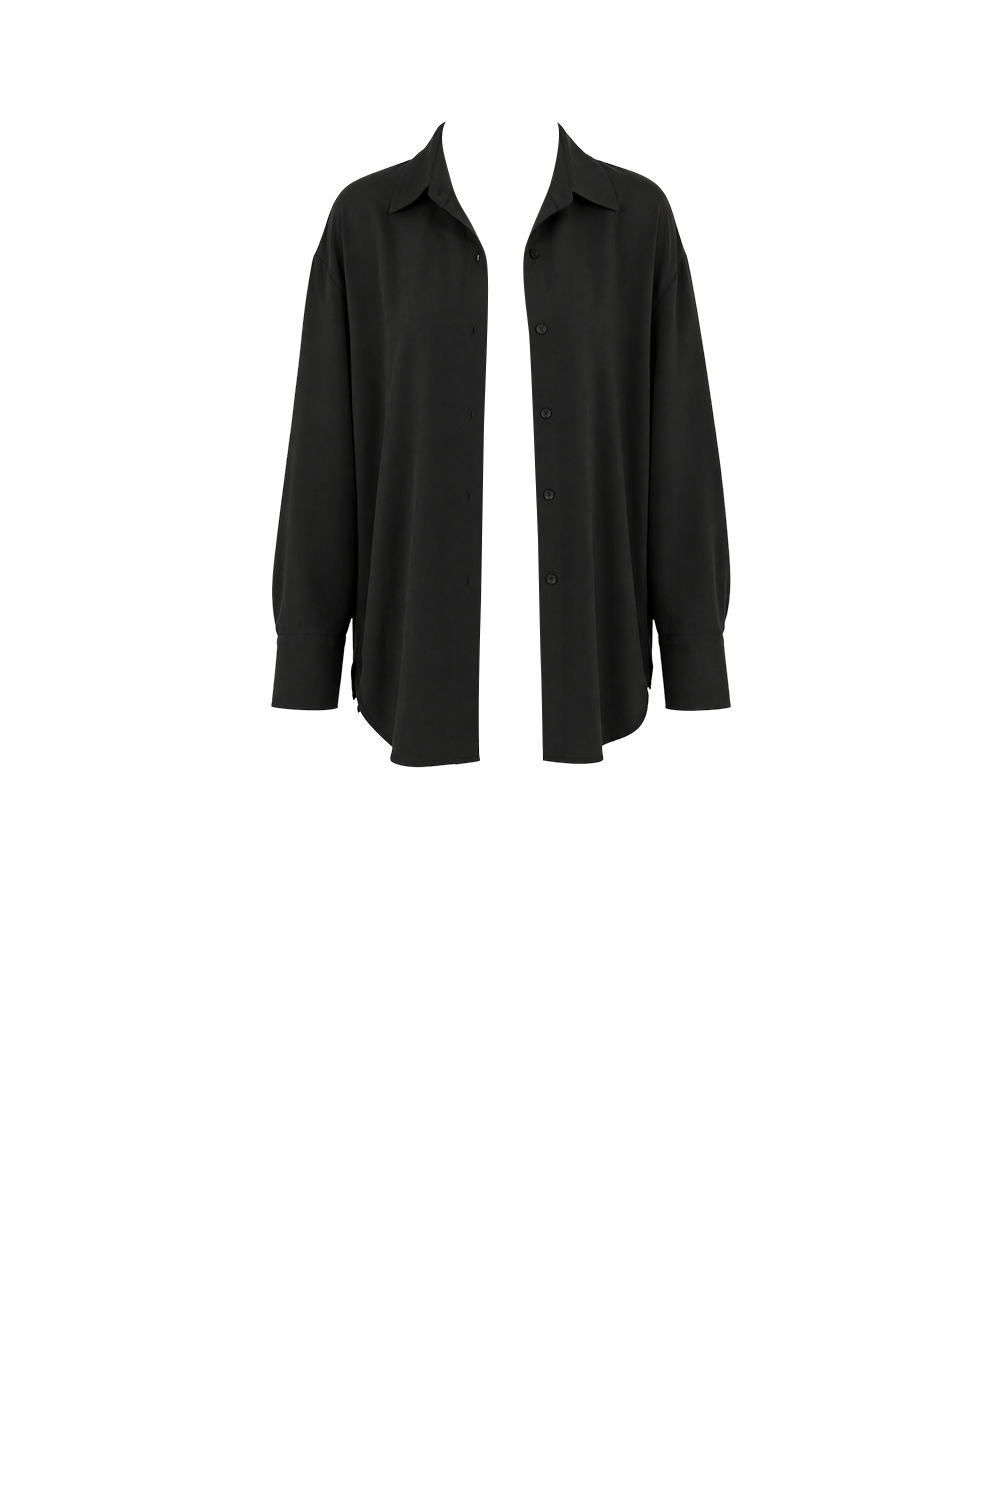
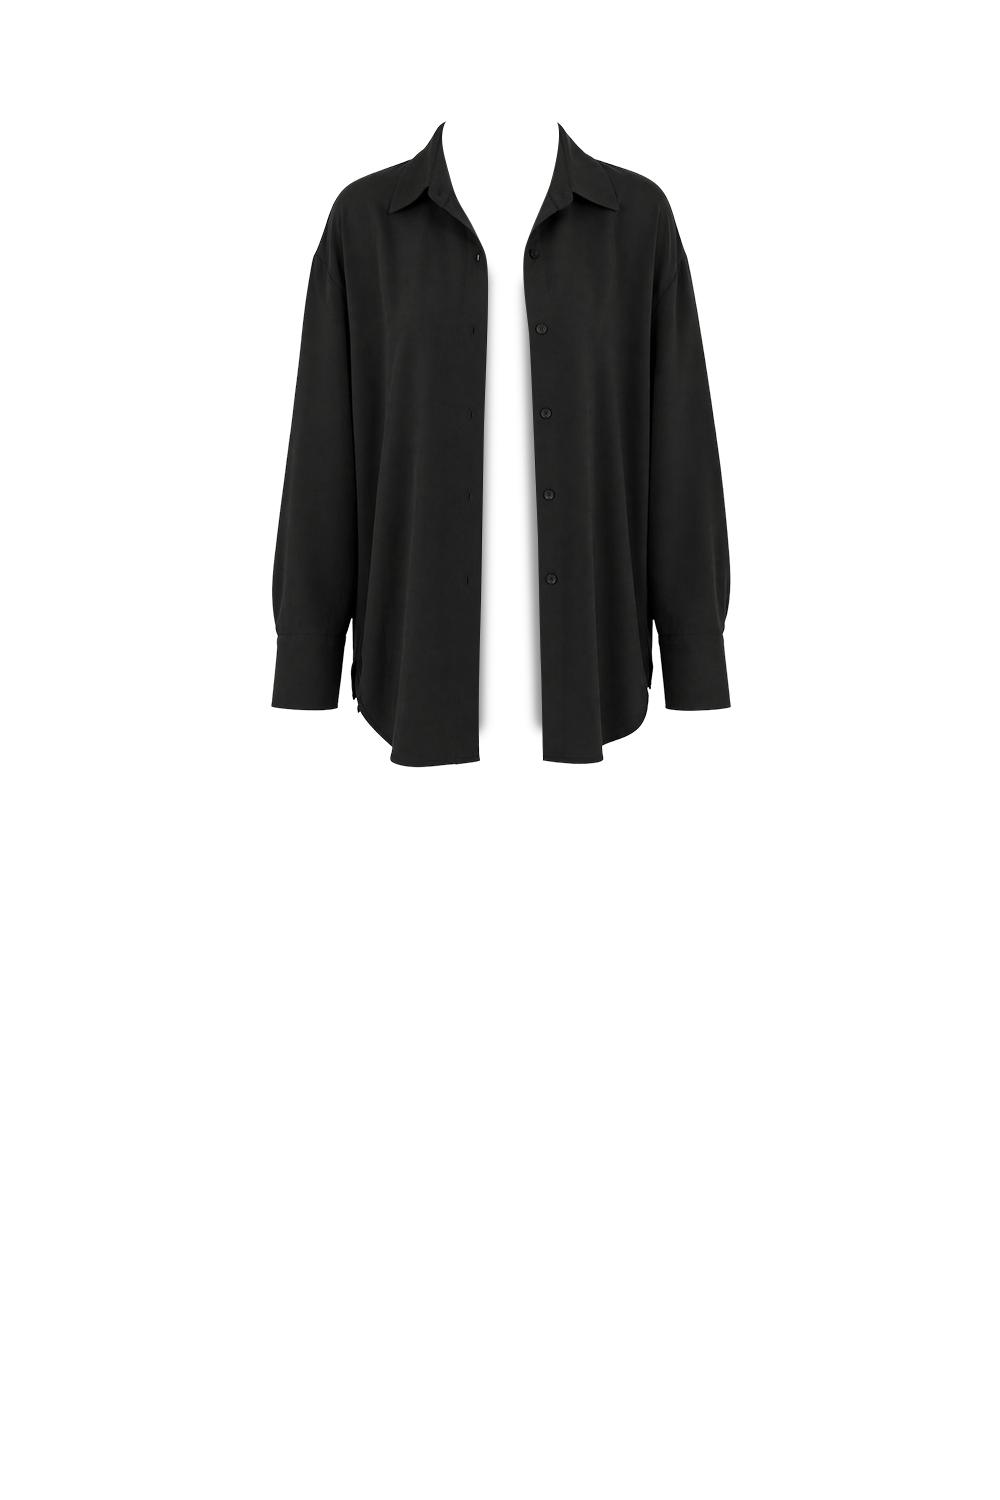
Vestidor: fixed z-index system, new polo cuello alto, updated garment images
- Replace array-position z-index with fixed slots per garment type
  (backs fixed z1-3, middle reorderable z10+, outwear fronts z20-21)
- Add Polo Cuello Alto Blanco (id:604)
- Update coat, camisa, and polo images with trimmed versions

Changed region(s): [[0.465, 0.184, 0.558, 0.4907]]

diff --git a/vestidor.html b/vestidor.html
@@ -1189,6 +1189,9 @@
         { id:603, name:"Basic Tee Blanca", cat:"polos", price:450,
           imgDemo:"photos_demo/demo_polo_gray.png",
           img:"img/vestidor/polo_002_blanco.png" },
+        { id:604, name:"Polo Cuello Alto Blanco", cat:"polos", price:750,
+          imgDemo:"photos_demo/polo_003_blanco.png",
+          img:"img/vestidor/polo_003_blanco.png" },
       ],
       blusas: [
         { id:701, name:"Camisa Negra", cat:"blusas", price:950,
@@ -1487,12 +1490,33 @@
     /* ============================================
        RENDER CANVAS LAYERS
        ============================================ */
+    /* Z-index system:
+       - FIXED slots for back layers + outwear fronts (never move)
+       - REORDERABLE middle zone for polos, pants, faldas, camisa-front (user can swap)
+
+       z=1: abrigos back   (FIXED)
+       z=2: jackets back    (FIXED)
+       z=3: camisa/blusa back (FIXED)
+       z=10..19: middle zone — polos, pants, faldas, mid-front (array order)
+       z=20: jackets front  (FIXED)
+       z=21: abrigos front  (FIXED)
+    */
+    function isMiddleLayer(layer) {
+      const lt = layer.layerType;
+      if (lt === 'normal') return true;       // polos, pants, faldas
+      if (lt === 'mid-front') return true;     // camisa/blusa front
+      return false;
+    }
+
     function renderCanvas() {
       document.querySelectorAll('.canvas__layer').forEach(el => el.remove());
 
       const canvas = document.getElementById('canvas');
       const emptyMsg = document.getElementById('canvasEmpty');
       emptyMsg.classList.toggle('hidden', layers.length > 0);
+
+      // Count middle layers for dynamic z assignment
+      let midCounter = 0;
 
       layers.forEach((l, i) => {
         if (l.hidden) return; // skip hidden layers
@@ -1503,8 +1527,17 @@
         if (l.layerType === 'coat-back' || l.layerType === 'mid-back') div.classList.add('canvas__layer--coat-back');
         if (l.layerType === 'coat-front' || l.layerType === 'mid-front') div.classList.add('canvas__layer--coat-front');
 
-        // z-index follows array order: index 0 = back, last = front
-        div.style.zIndex = i + 2;
+        // Z-index: fixed for backs/outwear-fronts, array-order for middle zone
+        let z;
+        const cat = l.item.cat;
+        const lt = l.layerType;
+        if (lt === 'coat-back' && cat === 'abrigos')  z = 1;
+        else if (lt === 'coat-back' && cat === 'jackets')  z = 2;
+        else if (lt === 'mid-back')                        z = 3;
+        else if (lt === 'coat-front' && cat === 'jackets') z = 20;
+        else if (lt === 'coat-front' && cat === 'abrigos') z = 21;
+        else { z = 10 + midCounter; midCounter++; } // middle zone: array order
+        div.style.zIndex = z;
 
         // Pick correct image: resolve state, then separate back/front if available
         const resolved = resolveImages(l.item, l.state);
@@ -1621,29 +1654,20 @@
        LAYER MANIPULATION
        ============================================ */
     function moveLayer(uid, direction) {
+      // With fixed z-indices, array order only affects chip display order.
+      // Visual rendering is always correct because z-index is fixed per garment type.
       const idx = layers.findIndex(l => l.uid === uid);
       if (idx < 0) return;
-      const layer = layers[idx];
 
-      // Skip over hidden back layers when calculating swap target
       let newIdx = idx + direction;
+      // Skip back layers in chip navigation
       while (newIdx >= 0 && newIdx < layers.length &&
              (layers[newIdx].layerType === 'coat-back' || layers[newIdx].layerType === 'mid-back')) {
         newIdx += direction;
       }
       if (newIdx < 0 || newIdx >= layers.length) return;
 
-      // If moving a front layer (coat-front/mid-front), move its paired back layer too
-      if (layer.layerType === 'coat-front' || layer.layerType === 'mid-front') {
-        // Swap front layer
-        const [moved] = layers.splice(idx, 1);
-        layers.splice(newIdx > idx ? newIdx - 1 : newIdx, 0, moved);
-      } else {
-        [layers[idx], layers[newIdx]] = [layers[newIdx], layers[idx]];
-      }
-
-      // Enforce invariant: back layers always below their paired front
-      enforceLayerOrder();
+      [layers[idx], layers[newIdx]] = [layers[newIdx], layers[idx]];
       renderCanvas();
       renderLayerStack();
     }
@@ -1654,25 +1678,8 @@
       if (fromIdx < 0 || toIdx < 0) return;
       const [moved] = layers.splice(fromIdx, 1);
       layers.splice(toIdx, 0, moved);
-      enforceLayerOrder();
       renderCanvas();
       renderLayerStack();
-    }
-
-    /* Enforce: back layers always at bottom, front layers always above their back */
-    function enforceLayerOrder() {
-      // Collect all back layers, remove them, then reinsert at correct positions
-      const backs = layers.filter(l => l.layerType === 'coat-back' || l.layerType === 'mid-back');
-      layers = layers.filter(l => l.layerType !== 'coat-back' && l.layerType !== 'mid-back');
-
-      // Sort backs: coat-back (abrigos) at very bottom, then mid-back
-      backs.sort((a, b) => {
-        const order = { 'coat-back': 0, 'mid-back': 1 };
-        return (order[a.layerType] || 0) - (order[b.layerType] || 0);
-      });
-
-      // Reinsert all backs at the beginning
-      layers.unshift(...backs);
     }
 
     function removeLayer(uid) {
